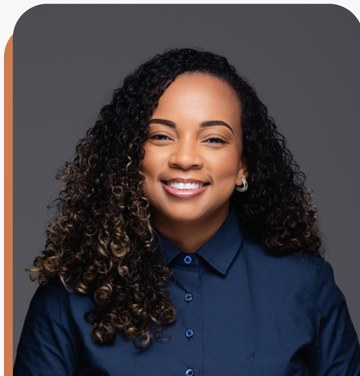
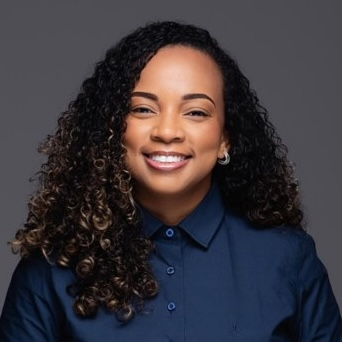
Second commit after minor changes

diff --git a/styles.css b/styles.css
@@ -152,16 +152,14 @@ a{ color:inherit; text-decoration:none; }
   margin-top:36px;
 }
 .hero .q-mark{
-  font-family:'Cormorant Garamond', serif;
-  font-size:90px;
-  line-height:0.7;
-  color:var(--cream);
+  height:100px;
+  width:auto;
+  display:block;
   opacity:0.85;
   position:absolute;
   top:14px; right:14px;
-  font-weight:500;
   z-index:2;
-  text-shadow:0 2px 12px rgba(13,32,56,0.55);
+  filter:drop-shadow(0 2px 12px rgba(13,32,56,0.55));
 }
 .hero .eyebrow{
   font-size:11px; letter-spacing:0.18em; color:var(--terracotta);
@@ -394,13 +392,21 @@ a{ color:inherit; text-decoration:none; }
 }
 .contact-row:last-child{ border-bottom:1px solid var(--line); }
 .contact-row .ic{
-  width:30px; height:30px;
-  border:1px solid var(--terracotta);
+  width:34px; height:34px;
+  background:var(--terracotta);
   border-radius:50%;
   display:flex; align-items:center; justify-content:center;
-  color:var(--terracotta);
-  font-size:13px;
+  color:var(--cream);
   flex-shrink:0;
+}
+.contact-row .ic svg{
+  width:17px; height:17px;
+  display:block;
+  fill:none;
+  stroke:currentColor;
+  stroke-width:1.8;
+  stroke-linecap:round;
+  stroke-linejoin:round;
 }
 
 /* ---------- FOOTER ---------- */
@@ -410,15 +416,9 @@ footer{
   padding:36px 24px 28px;
 }
 footer .word-mark img{
-  height:22px;
+  height:30px;
   width:auto;
-  display:block;
-}
-footer .tagline{
-  font-size:11px;
-  letter-spacing:0.14em;
-  color:rgba(250,243,231,0.4);
-  margin-top:6px;
+  max-width:100%;
   display:block;
 }
 footer ul{
@@ -476,7 +476,7 @@ footer .fine{
   .hero-photo{
     height:320px; border-radius:4px;
   }
-  .hero .q-mark{ top:16px; right:16px; font-size:130px; }
+  .hero .q-mark{ top:16px; right:16px; height:140px; }
 
   .city-band{ height:340px; }
 
@@ -506,6 +506,7 @@ footer .fine{
   .contato p{ max-width:420px; }
 
   footer{ padding:44px 40px 32px; }
+  footer .word-mark img{ margin-right:20px; }
   footer .footer-inner{
     display:flex; justify-content:space-between; align-items:flex-start;
   }
@@ -535,7 +536,7 @@ footer .fine{
   .hero h1{ font-size:54px; max-width:480px; }
   .hero p{ max-width:420px; }
   .hero-photo{ height:420px; }
-  .hero .q-mark{ font-size:150px; top:20px; right:20px; }
+  .hero .q-mark{ height:170px; top:20px; right:20px; }
 
   .city-band{ height:380px; }
 

diff --git a/index.html b/index.html
@@ -42,7 +42,7 @@
         </div>
       </div>
       <div class="hero-photo-wrap">
-        <span class="q-mark">Q</span>
+        <img class="q-mark" src="images/monograma.svg" alt="" aria-hidden="true">
         <div class="hero-photo"></div>
       </div>
     </div>
@@ -175,9 +175,18 @@
     </div>
 
     <div class="contact-details">
-      <div class="contact-row"><span class="ic">@</span> atendimento@aquanticaconsultoria.com</div>
-      <div class="contact-row"><span class="ic">·</span> +244 940 461 782</div>
-      <div class="contact-row"><span class="ic">○</span> Av. 4 de Fevereiro, nº 50, Marginal, Luanda</div>
+      <div class="contact-row">
+        <span class="ic" aria-hidden="true"><svg viewBox="0 0 24 24"><rect x="3" y="5" width="18" height="14" rx="2"/><path d="m3.5 6.5 8.5 6.5 8.5-6.5"/></svg></span>
+        atendimento@aquanticaconsultoria.com
+      </div>
+      <div class="contact-row">
+        <span class="ic" aria-hidden="true"><svg viewBox="0 0 24 24"><path d="M22 16.92v3a2 2 0 0 1-2.18 2 19.8 19.8 0 0 1-8.63-3.07 19.5 19.5 0 0 1-6-6A19.8 19.8 0 0 1 2.12 4.2 2 2 0 0 1 4.11 2h3a2 2 0 0 1 2 1.72c.13.96.36 1.9.7 2.81a2 2 0 0 1-.45 2.11L8.09 9.91a16 16 0 0 0 6 6l1.27-1.27a2 2 0 0 1 2.11-.45c.91.34 1.85.57 2.81.7A2 2 0 0 1 22 16.92Z"/></svg></span>
+        +244 940 461 782
+      </div>
+      <div class="contact-row">
+        <span class="ic" aria-hidden="true"><svg viewBox="0 0 24 24"><path d="M20 10c0 6-8 12-8 12s-8-6-8-12a8 8 0 0 1 16 0Z"/><circle cx="12" cy="10" r="3"/></svg></span>
+        Av. 4 de Fevereiro, nº 50, Marginal, Luanda
+      </div>
     </div>
     </div>
   </section>
@@ -186,8 +195,7 @@
   <footer>
     <div class="footer-inner">
     <div>
-    <div class="word-mark"><img src="images/logo-aquantica.svg" alt="Aquantica"></div>
-    <span class="tagline">Consultoria empresarial</span>
+    <div class="word-mark"><img src="images/logo-aquantica-with-text.svg" alt="Aquantica — Consultoria empresarial"></div>
     </div>
     <ul>
       <li><a href="#solucoes">O que fazemos</a></li>
